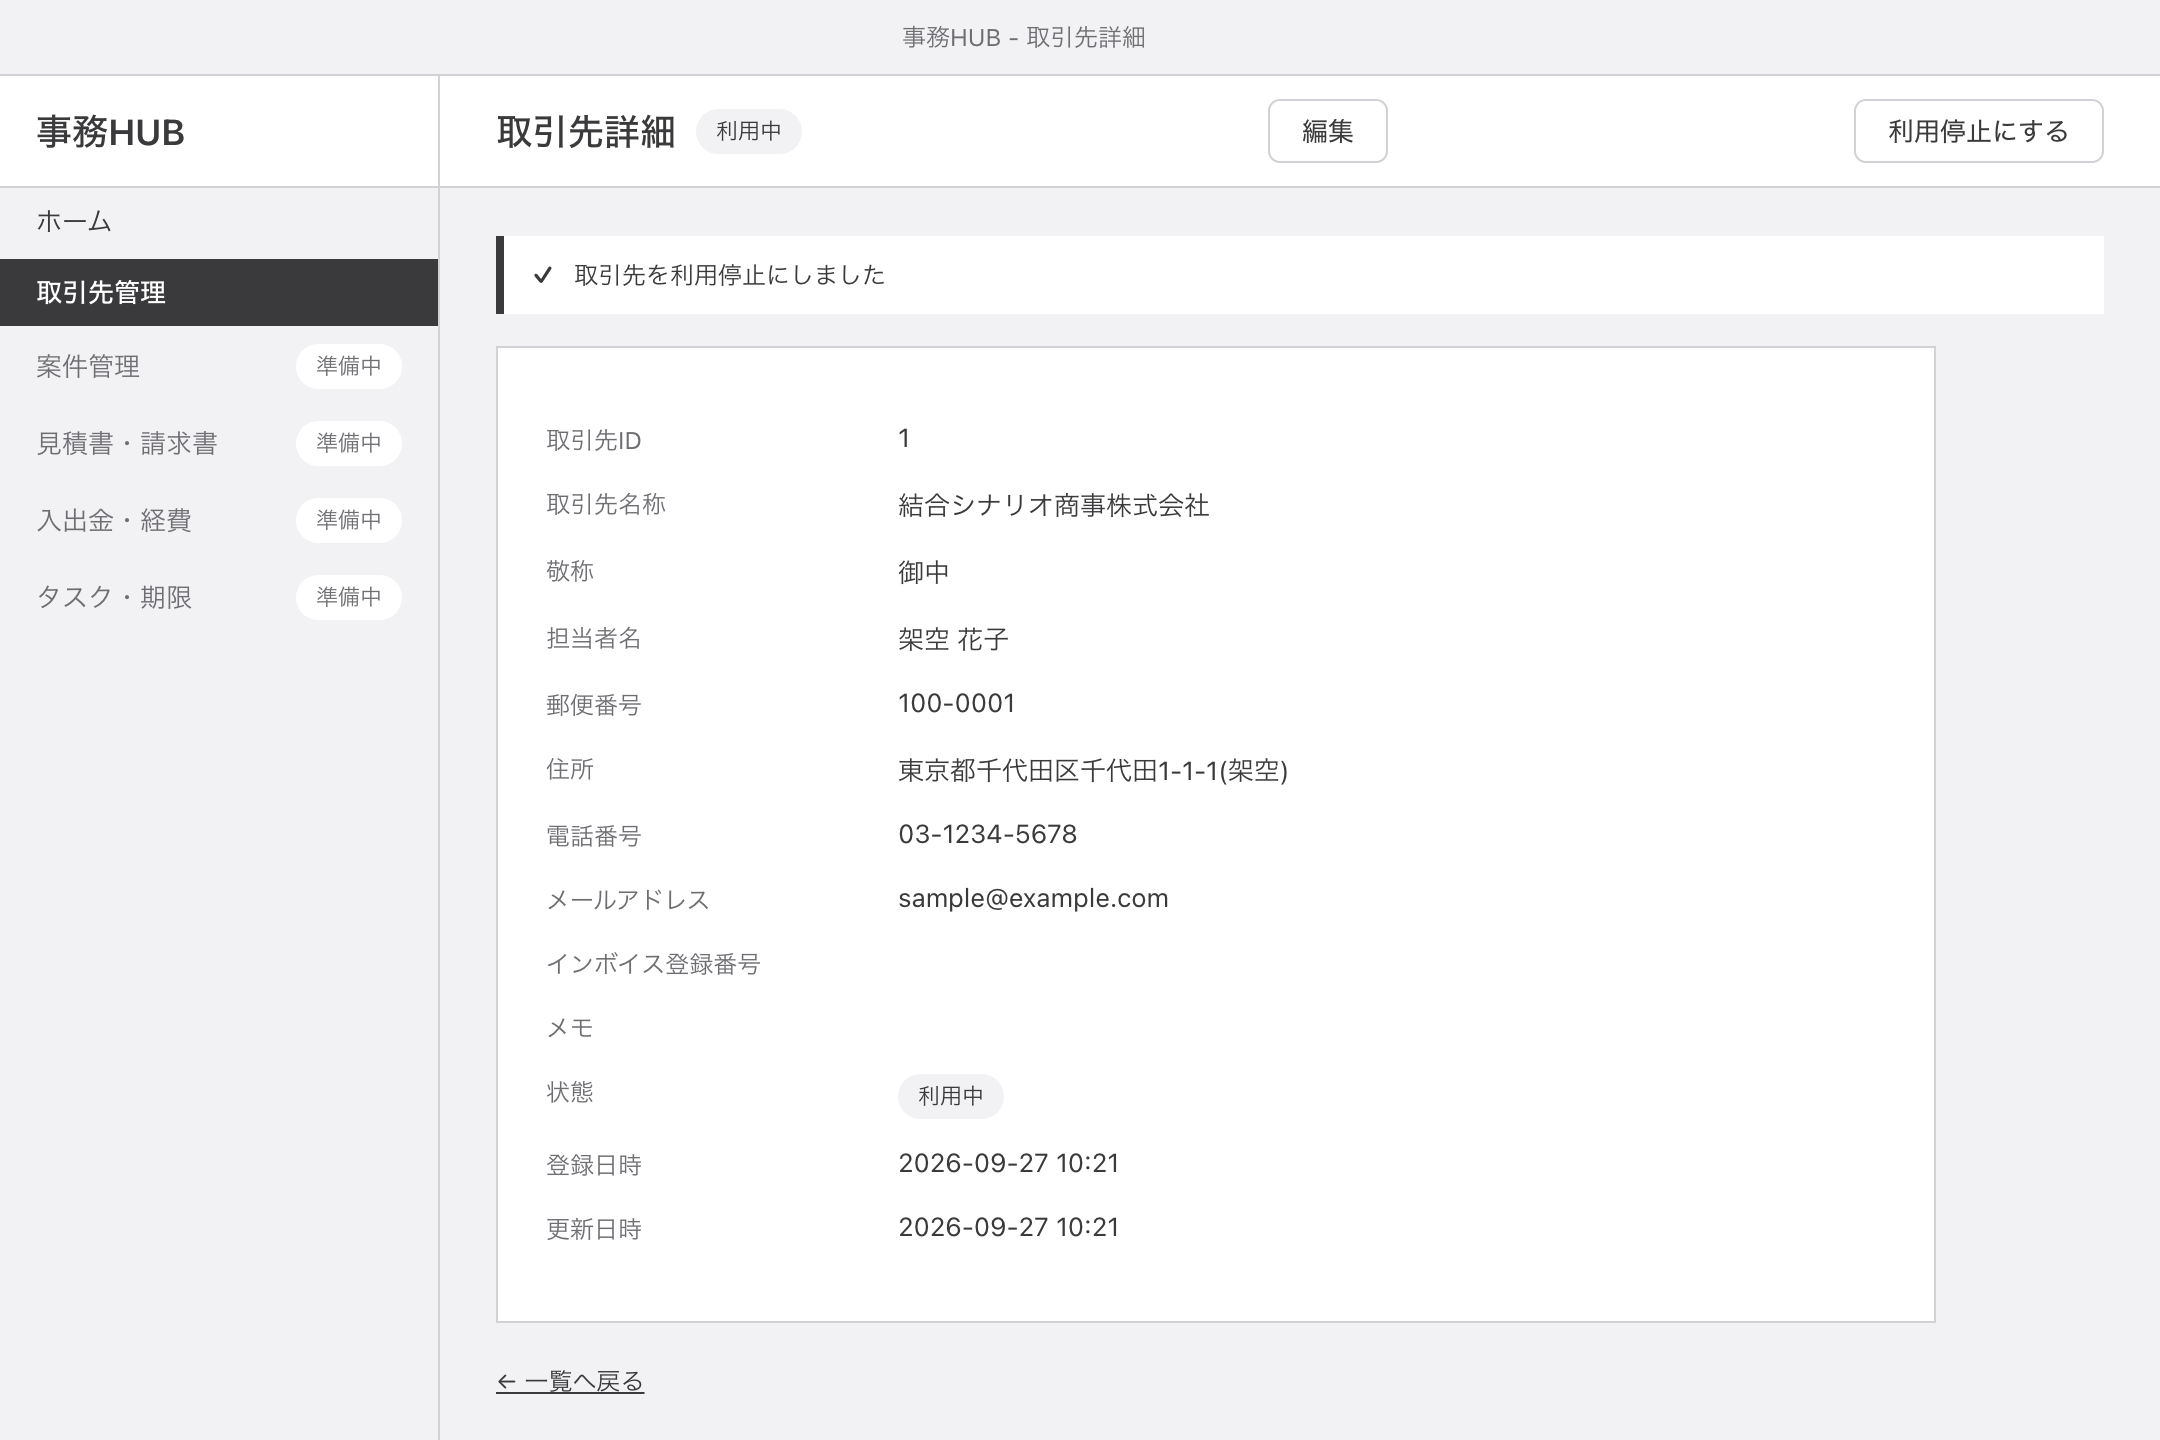
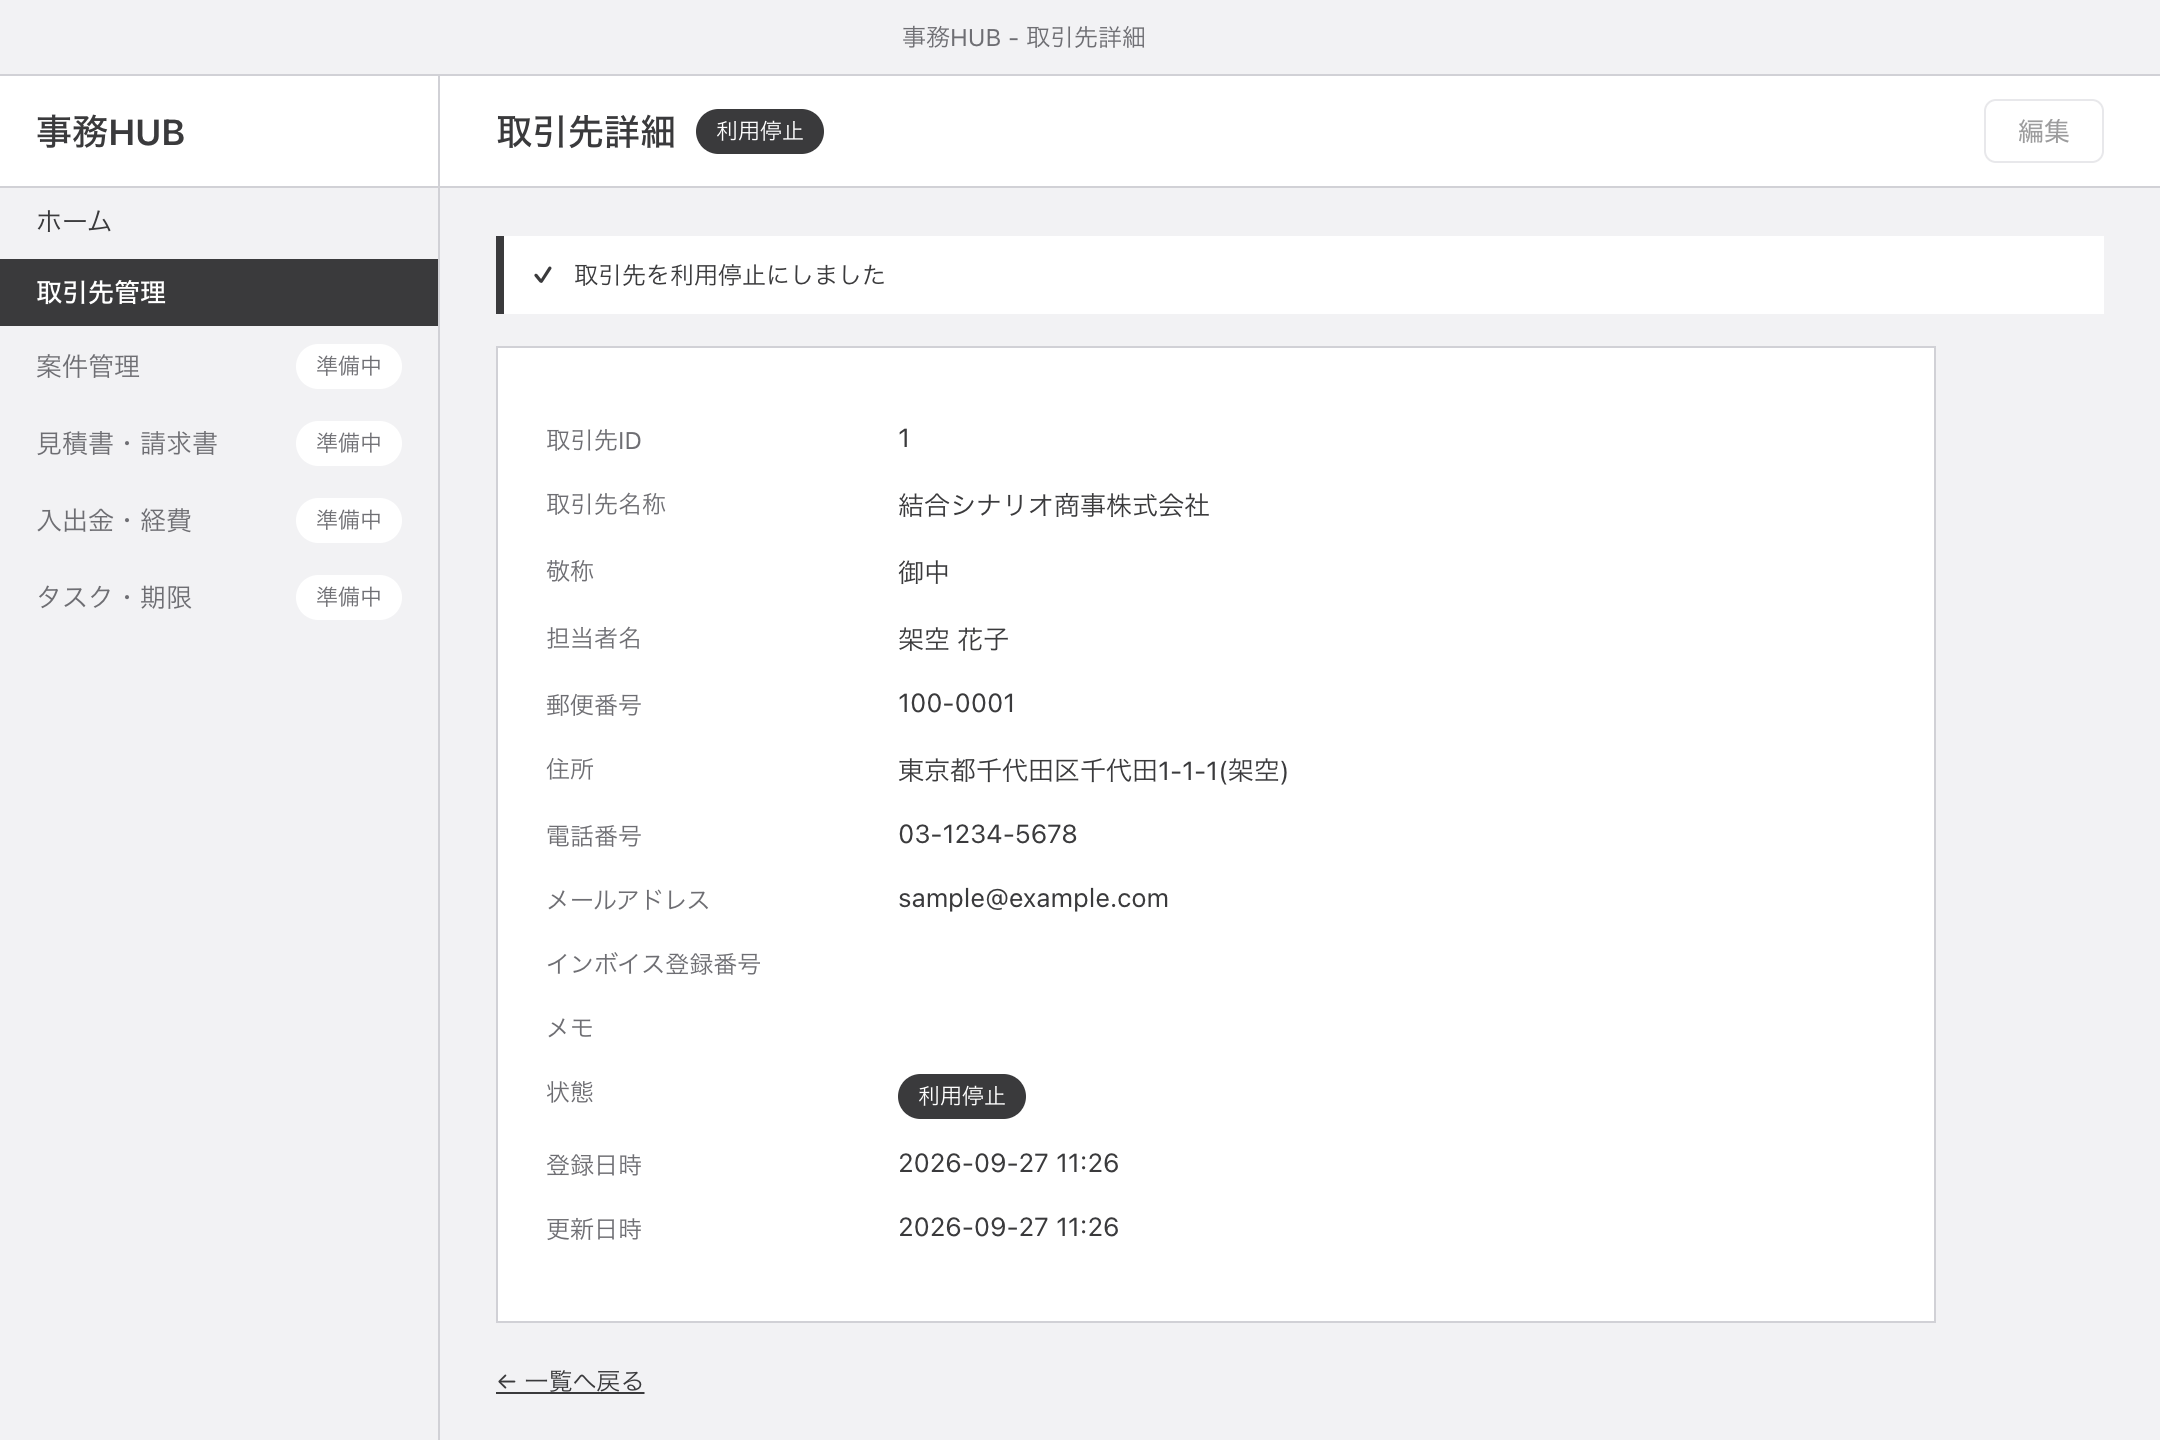
fix: show startup error screen and refresh detail after deactivation
A corrupted database left the app with no window, and the detail screen kept showing a deactivated client as active until reopened.

diff --git a/app/src/main/startup.test.ts b/app/src/main/startup.test.ts
@@ -1,0 +1,62 @@
+import { describe, expect, it, afterEach } from 'vitest'
+import { chmodSync, mkdtempSync, rmSync, writeFileSync } from 'node:fs'
+import { tmpdir } from 'node:os'
+import { join } from 'node:path'
+import { initializeStartup } from './startup'
+import { STARTUP_MESSAGES } from '@shared/messages/messages'
+
+/**
+ * BUG-01(テスト結果報告書.md TC-02)の修正確認。
+ * `new Database(dbFilePath)`(コンストラクタ時点の同期例外を含む)がtry/catchの外側にあったため、
+ * データベースファイル破損時に起動エラー画面(app:startup-status経由)が表示されず、
+ * ウィンドウ自体が表示されないまま無反応になっていた。
+ * 参照元: 詳細設計書4.1章手順5・8章(エラーハンドリング設計)
+ */
+describe('initializeStartup', () => {
+  let dir: string | undefined
+
+  afterEach(() => {
+    if (dir) {
+      // chmodで読み取り不可にしたテストがあるため、削除前に権限を戻す
+      chmodSync(dir, 0o700)
+      rmSync(dir, { recursive: true, force: true })
+      dir = undefined
+    }
+  })
+
+  it('正常なデータベースファイル(新規作成)の場合、ok:trueとDatabaseインスタンスを返す', () => {
+    dir = mkdtempSync(join(tmpdir(), 'jimuhub-startup-test-'))
+    const dbFilePath = join(dir, 'data.sqlite')
+
+    const result = initializeStartup(dbFilePath)
+
+    expect(result.status).toEqual({ ok: true })
+    expect(result.database).not.toBeNull()
+    result.database?.close()
+  })
+
+  it('壊れたデータベースファイル(有効なSQLiteファイルではない内容)の場合、例外を投げずok:falseを返す', () => {
+    dir = mkdtempSync(join(tmpdir(), 'jimuhub-startup-test-'))
+    const dbFilePath = join(dir, 'data.sqlite')
+    writeFileSync(dbFilePath, 'これは正しいSQLiteファイルではありません', 'utf-8')
+
+    const result = initializeStartup(dbFilePath)
+
+    expect(result.status).toEqual({ ok: false, message: STARTUP_MESSAGES.databaseError })
+    expect(result.database).toBeNull()
+  })
+
+  it('読み込めないデータベースファイル(権限なし)の場合、例外を投げずok:falseを返す', () => {
+    dir = mkdtempSync(join(tmpdir(), 'jimuhub-startup-test-'))
+    const dbFilePath = join(dir, 'data.sqlite')
+    writeFileSync(dbFilePath, '', 'utf-8')
+    chmodSync(dbFilePath, 0o000)
+
+    const result = initializeStartup(dbFilePath)
+
+    expect(result.status).toEqual({ ok: false, message: STARTUP_MESSAGES.databaseError })
+    expect(result.database).toBeNull()
+
+    chmodSync(dbFilePath, 0o600)
+  })
+})

diff --git a/app/src/main/index.ts b/app/src/main/index.ts
@@ -1,7 +1,6 @@
 import { app, BrowserWindow } from 'electron'
 import { join } from 'node:path'
 import { mkdirSync } from 'node:fs'
-import { Database } from './db/db'
 import { ClientRepository } from './repositories/client.repository'
 import { ClientService } from './services/client.service'
 import { BackupService } from './services/backup.service'
@@ -9,8 +8,7 @@ import { MigrationService } from './services/migration.service'
 import { ClientIpcHandler } from './ipc/client.ipc-handler'
 import { DataIpcHandler } from './ipc/data.ipc-handler'
 import { AppIpcHandler } from './ipc/app.ipc-handler'
-import { STARTUP_MESSAGES } from '@shared/messages/messages'
-import type { StartupStatus } from '@shared/ipc/api'
+import { initializeStartup } from './startup'
 
 /**
  * データの保存場所。
@@ -58,30 +56,28 @@ function createMainWindow(): BrowserWindow {
 }
 
 app.whenReady().then(() => {
-  const database = new Database(dbFilePath)
-
-  let startupStatus: StartupStatus = { ok: true }
-  try {
-    database.initialize()
-  } catch (error) {
-    startupStatus = { ok: false, message: STARTUP_MESSAGES.databaseError }
-    console.error('データベース初期化に失敗しました', error)
-  }
-
-  const clientRepository = new ClientRepository(database)
-  const clientService = new ClientService(clientRepository)
-  const backupService = new BackupService({
-    database,
-    clientRepository,
-    migrationService: new MigrationService(),
-    dbFilePath,
-    backupsDir,
-    appVersion: app.getVersion()
-  })
+  // BUG-01修正: データベース接続の初期化(コンストラクタ時点の例外を含む)は
+  // initializeStartup()内でtry/catchされ、例外を外へ投げない(startup.ts参照)。
+  // これにより、データベースファイル破損時もここで処理が中断されず、必ずcreateMainWindow()まで到達する。
+  const { status: startupStatus, database } = initializeStartup(dbFilePath)
 
   new AppIpcHandler(startupStatus).registerHandlers()
-  new ClientIpcHandler(clientService).registerHandlers()
-  new DataIpcHandler(backupService).registerHandlers()
+
+  if (database) {
+    const clientRepository = new ClientRepository(database)
+    const clientService = new ClientService(clientRepository)
+    const backupService = new BackupService({
+      database,
+      clientRepository,
+      migrationService: new MigrationService(),
+      dbFilePath,
+      backupsDir,
+      appVersion: app.getVersion()
+    })
+
+    new ClientIpcHandler(clientService).registerHandlers()
+    new DataIpcHandler(backupService).registerHandlers()
+  }
 
   createMainWindow()
 

diff --git a/app/e2e/scenarios/client-lifecycle.spec.ts b/app/e2e/scenarios/client-lifecycle.spec.ts
@@ -115,14 +115,20 @@ test.describe('結合シナリオ: 取引先のライフサイクル一連確認
     )
     expect(backendStatus).toBe('inactive')
 
-    // 不具合TC-31-a: 詳細設計書4.8章手順4「一覧・詳細画面の表示を最新化し、状態バッジを反映する」に反し、
-    // 同一詳細画面内では再取得(再マウント)が行われず、バッジ・編集ボタンが「利用中」のまま表示され続ける。
-    // データ自体は上記のとおり正しく更新されているため、expect.softで記録し以降のシナリオは継続する。
+    // BUG-02修正確認: 詳細設計書4.8章手順4「一覧・詳細画面の表示を最新化し、状態バッジを反映する」のとおり、
+    // 同一詳細画面インスタンス内でも再取得され、バッジ・編集ボタンが即座に「利用停止」状態を反映することを確認する
+    // (画面見出し脇のバッジ・状態欄のバッジの2箇所に表示されるため`.first()`で判定する)。
     await expect
-      .soft(window.getByText('利用停止', { exact: true }), '不具合TC-31-a: 利用停止後も詳細画面のバッジが更新されない')
+      .soft(
+        window.getByText('利用停止', { exact: true }).first(),
+        'BUG-02: 利用停止後に詳細画面のバッジが更新されない'
+      )
       .toBeVisible()
     await expect
-      .soft(window.getByRole('button', { name: '編集' }), '不具合TC-31-a: 利用停止後も編集ボタンが非活性にならない')
+      .soft(
+        window.getByRole('button', { name: '編集' }),
+        'BUG-02: 利用停止後に編集ボタンが非活性にならない'
+      )
       .toBeDisabled()
 
     // --- F-05: 既定フィルタでは一覧から除外され、ホーム件数も0件に戻ることを確認(結合確認) ---

diff --git a/app/src/main/startup.ts b/app/src/main/startup.ts
@@ -1,0 +1,32 @@
+import { Database } from './db/db'
+import { STARTUP_MESSAGES } from '@shared/messages/messages'
+import type { StartupStatus } from '@shared/ipc/api'
+
+export interface StartupResult {
+  status: StartupStatus
+  /** 初期化に成功した場合のみDatabaseインスタンスを返す。失敗時はnull(呼び出し元はclients:*・data:*のIPCハンドラを登録しない) */
+  database: Database | null
+}
+
+/**
+ * データベース接続の初期化・テーブル作成を行い、起動処理の結果を返す。
+ *
+ * `new Database(dbFilePath)`のコンストラクタ内(`db.ts`の`openConnection()`が同期的に呼ぶ`pragma()`等)で
+ * 例外が発生するケース(データベースファイル破損・読み込み権限なし等)を含めて、この関数の中でtry/catchする。
+ * 例外を外へ投げず、常に`StartupResult`を返すことで、呼び出し元(main/index.ts)が
+ * データベース接続失敗時にもウィンドウ生成処理まで確実に到達できるようにする
+ * (BUG-01修正: 従来は`new Database()`がtry/catchの外側にあり、例外発生時に
+ * `app.whenReady().then()`のコールバック全体が中断し、ウィンドウが一度も表示されなかった)。
+ *
+ * 参照元: 詳細設計書4.1章手順1・2・5、8章(エラーハンドリング設計)
+ */
+export function initializeStartup(dbFilePath: string): StartupResult {
+  try {
+    const database = new Database(dbFilePath)
+    database.initialize()
+    return { status: { ok: true }, database }
+  } catch (error) {
+    console.error('データベース初期化に失敗しました', error)
+    return { status: { ok: false, message: STARTUP_MESSAGES.databaseError }, database: null }
+  }
+}

diff --git a/app/src/renderer/src/pages/ClientDetailPage.test.tsx b/app/src/renderer/src/pages/ClientDetailPage.test.tsx
@@ -103,6 +103,43 @@ describe('ClientDetailPage', () => {
     await waitFor(() => expect(onDeactivated).toHaveBeenCalledWith(3))
   })
 
+  it('利用停止操作後、同一画面内でバッジ・編集ボタンの表示が最新化される(BUG-02修正確認)', async () => {
+    const getClient = vi
+      .fn()
+      .mockResolvedValueOnce(activeClient)
+      .mockResolvedValueOnce({ ...activeClient, status: 'inactive' })
+    const deactivateClient = vi.fn().mockResolvedValue({ success: true })
+    window.jimuhubApi = {
+      getStartupStatus: vi.fn(),
+      listClients: vi.fn(),
+      getClient,
+      createClient: vi.fn(),
+      updateClient: vi.fn(),
+      deactivateClient,
+      exportData: vi.fn(),
+      importData: vi.fn()
+    } as unknown as Window['jimuhubApi']
+
+    render(
+      <ClientDetailPage
+        clientId={3}
+        onNavigateHome={vi.fn()}
+        onBackToList={vi.fn()}
+        onEdit={vi.fn()}
+        onDeactivated={vi.fn()}
+      />
+    )
+
+    await userEvent.click(await screen.findByText('利用停止にする'))
+    await userEvent.click(screen.getByText('はい'))
+
+    // getClientが利用停止後に再取得され(2回呼ばれ)、画面遷移なしで表示が最新化されることを確認する
+    await waitFor(() => expect(getClient).toHaveBeenCalledTimes(2))
+    expect(await screen.findByText('編集')).toBeDisabled()
+    expect(screen.queryByText('利用停止にする')).not.toBeInTheDocument()
+    expect(screen.getAllByText('利用停止', { exact: true }).length).toBeGreaterThan(0)
+  })
+
   it('確認ダイアログ「いいえ」では何も実行しない', async () => {
     const { deactivateClient } = setupApi(activeClient)
     render(

diff --git a/app/e2e/scenarios/design-conformance.spec.ts b/app/e2e/scenarios/design-conformance.spec.ts
@@ -75,7 +75,9 @@ test.describe('デザインガイド適合confirmation(TC-34)', () => {
     await window.getByRole('button', { name: 'データを復元' }).click()
     await window.getByRole('button', { name: 'ファイルを選択して復元' }).click()
     const continueButton = window.getByRole('button', { name: '続行' })
-    const continueStyle = await continueButton.evaluate((el) => getComputedStyle(el).backgroundColor)
+    const continueStyle = await continueButton.evaluate(
+      (el) => getComputedStyle(el).backgroundColor
+    )
     expect(continueStyle).toBe('rgb(179, 69, 58)') // #B3453A
 
     const cancelButton = window.getByRole('button', { name: 'キャンセル' })
@@ -90,7 +92,9 @@ test.describe('デザインガイド適合confirmation(TC-34)', () => {
 
     // ホーム画面から「準備中」メニュー押下
     await window.getByRole('button', { name: '案件管理' }).click()
-    await expect(window.getByText('「案件管理」は以降のイテレーションで実装予定です。')).toBeVisible()
+    await expect(
+      window.getByText('「案件管理」は以降のイテレーションで実装予定です。')
+    ).toBeVisible()
     await expect(window.locator('.titlebar-title')).toHaveText('事務HUB - ホーム') // 画面遷移しないこと
 
     // 取引先一覧画面からも同様に案内表示のみで遷移しないこと(結合確認: 全画面共通のサイドバー挙動)

diff --git a/app/e2e/scenarios/backup-integrity.spec.ts b/app/e2e/scenarios/backup-integrity.spec.ts
@@ -144,7 +144,9 @@ test.describe('F-02/F-03: エクスポート・復元の異常系とデータ整
     await window.getByRole('button', { name: 'ファイルを選択して復元' }).click()
     await window.getByRole('button', { name: '続行' }).click()
     await expect(
-      window.getByText('選択されたファイルを読み込めませんでした。正しいエクスポートファイルかご確認ください')
+      window.getByText(
+        '選択されたファイルを読み込めませんでした。正しいエクスポートファイルかご確認ください'
+      )
     ).toBeVisible()
     await window.screenshot({ path: `${EVIDENCE_DIR}/02_import_parse_failure.png` })
   })

diff --git a/app/src/renderer/src/pages/ClientDetailPage.tsx b/app/src/renderer/src/pages/ClientDetailPage.tsx
@@ -61,6 +61,10 @@ export function ClientDetailPage({
 
   async function handleConfirmDeactivate(): Promise<void> {
     await window.jimuhubApi.deactivateClient(clientId)
+    // BUG-02修正: 利用停止後、同一の詳細画面インスタンス内でも最新の状態(バッジ・編集ボタンの活性/非活性)を
+    // 反映できるよう、取引先を再取得してローカルstateを更新する(詳細設計書4.8章手順4)。
+    const refreshed = await window.jimuhubApi.getClient(clientId)
+    setClient(refreshed)
     setConfirming(false)
     onDeactivated(clientId)
   }

diff --git a/app/eslint.config.js b/app/eslint.config.js
@@ -6,7 +6,17 @@ import eslintConfigPrettier from 'eslint-config-prettier'
 
 export default tseslint.config(
   {
-    ignores: ['out/**', 'dist/**', 'release/**', 'node_modules/**', 'e2e/.output/**']
+    ignores: [
+      'out/**',
+      'dist/**',
+      'release/**',
+      'node_modules/**',
+      'coverage/**',
+      'e2e/.output/**',
+      'e2e/scenarios/.output/**',
+      'playwright-report/**',
+      'test-results/**'
+    ]
   },
   ...tseslint.configs.recommended,
   {
